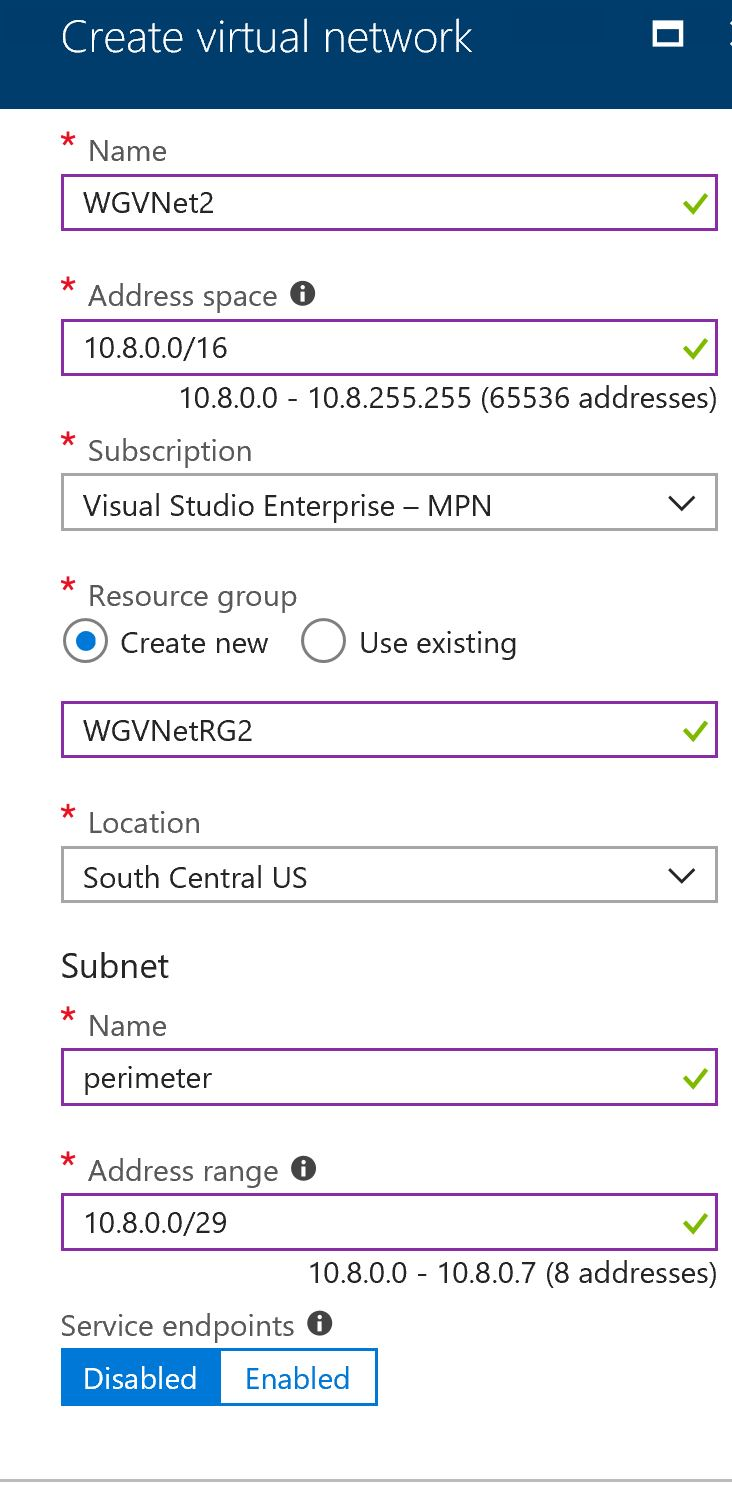
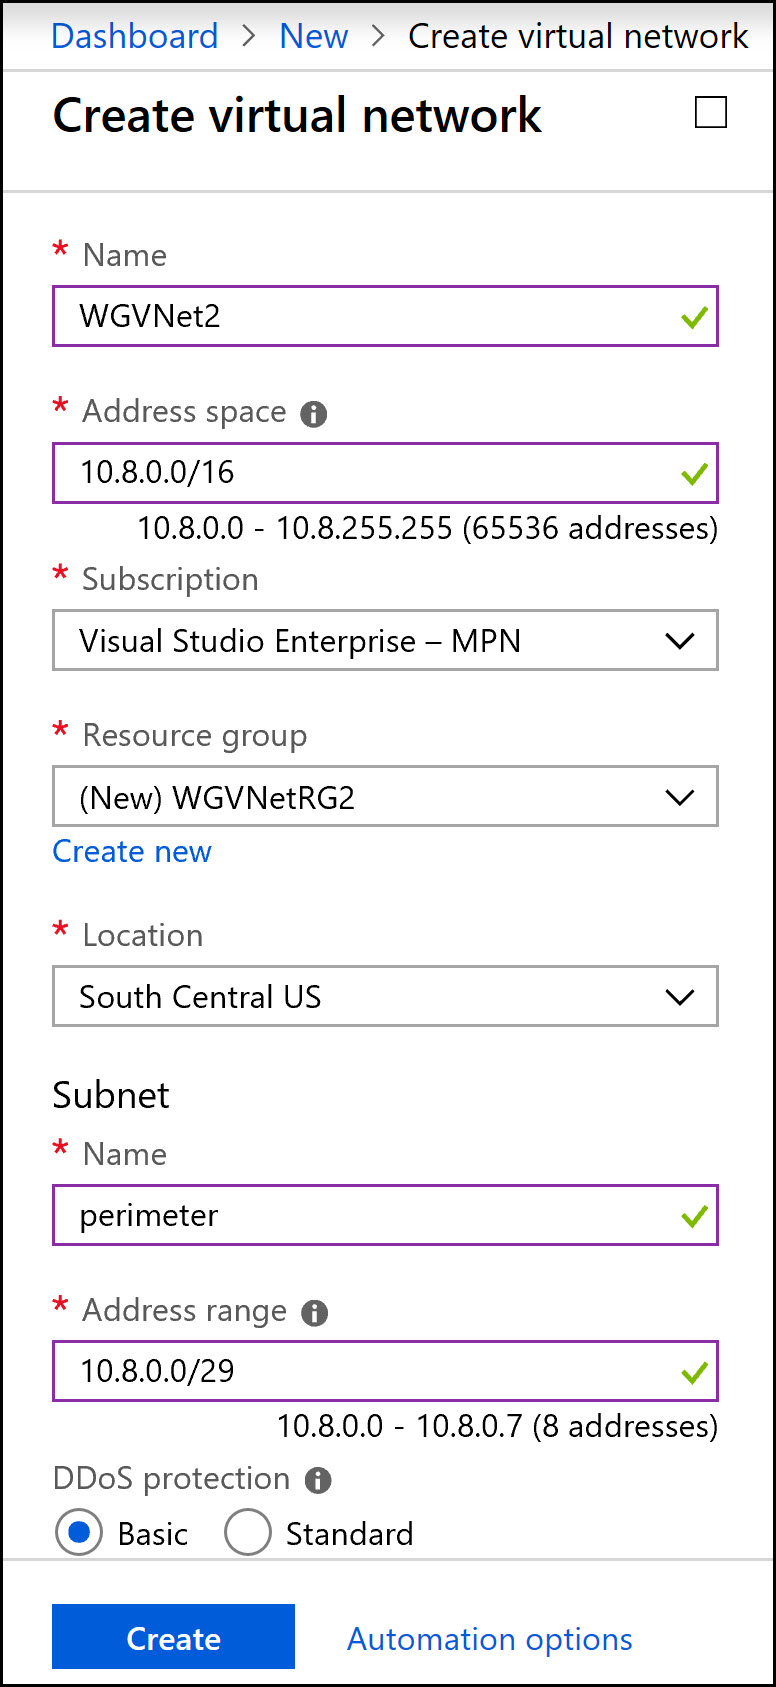
updated guide

Changed region(s): [[0.0, 0.0, 1.0, 1.0]]

diff --git a/Hands-on lab/HOL step-by-step - Enterprise-class networking in Azure.md b/Hands-on lab/HOL step-by-step - Enterprise-class networking in Azure.md
@@ -9,7 +9,7 @@ Hands-on lab step-by-step
 </div>
 
 <div class="MCWHeader3">
-August 2018
+January 2019
 </div>
 
 
@@ -33,41 +33,41 @@ Microsoft and the trademarks listed at <https://www.microsoft.com/en-us/legal/in
     - [Solution architecture](#solution-architecture)
     - [Requirements](#requirements)
     - [Help references](#help-references)
-    - [Exercise 1: Create a Virtual Network and provision subnets](#exercise-1-create-a-virtual-network-and-provision-subnets)
-        - [Task 1: Create a Virtual Network](#task-1-create-a-virtual-network)
-        - [Task 2: Configure subnets](#task-2-configure-subnets)
-    - [Exercise 2: Create second Virtual Network and provision subnets](#exercise-2-create-second-virtual-network-and-provision-subnets)
-        - [Task 1: Create a second Virtual Network](#task-1-create-a-second-virtual-network)
-        - [Task 2: Configure Subnets](#task-2-configure-subnets)
-    - [Exercise 3: Create route tables with required routes](#exercise-3-create-route-tables-with-required-routes)
-        - [Task 1: Create route tables](#task-1-create-route-tables)
-        - [Task 2: Add routes to each route table](#task-2-add-routes-to-each-route-table)
-    - [Exercise 4: Deploy n-tier application and validate functionality](#exercise-4-deploy-n-tier-application-and-validate-functionality)
-        - [Task 1: Use the Azure portal for a template deployment](#task-1-use-the-azure-portal-for-a-template-deployment)
-        - [Task 2: Validate the CloudShop application is up after the deployment](#task-2-validate-the-cloudshop-application-is-up-after-the-deployment)
-        - [Task 3: Create a load balancer to distribute load between the web servers](#task-3-create-a-load-balancer-to-distribute-load-between-the-web-servers)
-        - [Task 4: Configure the load balancer](#task-4-configure-the-load-balancer)
-    - [Exercise 5: Build the management station](#exercise-5-build-the-management-station)
-        - [Task 1: Build the management VM](#task-1-build-the-management-vm)
-    - [Exercise 6: Virtual Network Peering](#exercise-6-virtual-network-peering)
-        - [Task 1: Configure VNet peering WGVNET1 to WGVNET2](#task-1-configure-vnet-peering-wgvnet1-to-wgvnet2)
-        - [Task 2: Configure VNet peering WGVNET2 to WGVNET1](#task-2-configure-vnet-peering-wgvnet2-to-wgvnet1)
-    - [Exercise 7: Provision and configure partner firewall solution](#exercise-7-provision-and-configure-partner-firewall-solution)
-        - [Task 1: Provision the firewall appliance](#task-1-provision-the-firewall-appliance)
-        - [Task 2: Enable IP forwarding on the firewall network interface](#task-2-enable-ip-forwarding-on-the-firewall-network-interface)
-    - [Exercise 8: Configure the firewall to control traffic flow](#exercise-8-configure-the-firewall-to-control-traffic-flow)
-        - [Task 1: Log on to Barracuda firewall and monitor the traffic and firewall rules](#task-1-log-on-to-barracuda-firewall-and-monitor-the-traffic-and-firewall-rules)
-        - [Task 2: Configure firewall rules](#task-2-configure-firewall-rules)
-        - [Task 3: Associate route tables to subnets](#task-3-associate-route-tables-to-subnets)
-    - [Exercise 9: Configure Site-to-Site connectivity](#exercise-9-configure-site-to-site-connectivity)
-        - [Task 1: Create OnPrem Virtual Network](#task-1-create-onprem-virtual-network)
-        - [Task 2: Configure gateway subnets for on premise Virtual Network](#task-2-configure-gateway-subnets-for-on-premise-virtual-network)
-        - [Task 3: Create the first gateway](#task-3-create-the-first-gateway)
-        - [Task 4: Create the second gateway](#task-4-create-the-second-gateway)
-        - [Task 5: Connect the gateways](#task-5-connect-the-gateways)
-    - [Exercise 10: Validate connectivity from 'on-premises' to Azure](#exercise-10-validate-connectivity-from-on-premises-to-azure)
-        - [Task 1: Create a virtual machine to validate connectivity](#task-1-create-a-virtual-machine-to-validate-connectivity)
-        - [Task 2: Configure routing for simulated 'on-premises' to Azure traffic](#task-2-configure-routing-for-simulated-on-premises-to-azure-traffic)
+    - [Exercise 1: Create a Virtual Network and provision subnets](#exercise-1--create-a-virtual-network-and-provision-subnets)
+        - [Task 1: Create a Virtual Network](#task-1--create-a-virtual-network)
+        - [Task 2: Configure subnets](#task-2--configure-subnets)
+    - [Exercise 2: Create second Virtual Network and provision subnets](#exercise-2--create-second-virtual-network-and-provision-subnets)
+        - [Task 1: Create a second Virtual Network](#task-1--create-a-second-virtual-network)
+        - [Task 2: Configure Subnets](#task-2--configure-subnets)
+    - [Exercise 3: Create route tables with required routes](#exercise-3--create-route-tables-with-required-routes)
+        - [Task 1: Create route tables](#task-1--create-route-tables)
+        - [Task 2: Add routes to each route table](#task-2--add-routes-to-each-route-table)
+    - [Exercise 4: Deploy n-tier application and validate functionality](#exercise-4--deploy-n-tier-application-and-validate-functionality)
+        - [Task 1: Use the Azure portal for a template deployment](#task-1--use-the-azure-portal-for-a-template-deployment)
+        - [Task 2: Validate the CloudShop application is up after the deployment](#task-2--validate-the-cloudshop-application-is-up-after-the-deployment)
+        - [Task 3: Create a load balancer to distribute load between the web servers](#task-3--create-a-load-balancer-to-distribute-load-between-the-web-servers)
+        - [Task 4: Configure the load balancer](#task-4--configure-the-load-balancer)
+    - [Exercise 5: Build the management station](#exercise-5--build-the-management-station)
+        - [Task 1: Build the management VM](#task-1--build-the-management-vm)
+    - [Exercise 6: Virtual Network Peering](#exercise-6--virtual-network-peering)
+        - [Task 1: Configure VNet peering WGVNET1 to WGVNET2](#task-1--configure-vnet-peering-wgvnet1-to-wgvnet2)
+        - [Task 2: Configure VNet peering WGVNET2 to WGVNET1](#task-2--configure-vnet-peering-wgvnet2-to-wgvnet1)
+    - [Exercise 7: Provision and configure partner firewall solution](#exercise-7--provision-and-configure-partner-firewall-solution)
+        - [Task 1: Provision the firewall appliance](#task-1--provision-the-firewall-appliance)
+        - [Task 2: Enable IP forwarding on the firewall network interface](#task-2--enable-ip-forwarding-on-the-firewall-network-interface)
+    - [Exercise 8: Configure the firewall to control traffic flow](#exercise-8--configure-the-firewall-to-control-traffic-flow)
+        - [Task 1: Log on to Barracuda firewall and monitor the traffic and firewall rules](#task-1--log-on-to-barracuda-firewall-and-monitor-the-traffic-and-firewall-rules)
+        - [Task 2: Configure firewall rules](#task-2--configure-firewall-rules)
+        - [Task 3: Associate route tables to subnets](#task-3--associate-route-tables-to-subnets)
+    - [Exercise 9: Configure Site-to-Site connectivity](#exercise-9--configure-site-to-site-connectivity)
+        - [Task 1: Create OnPrem Virtual Network](#task-1--create-onprem-virtual-network)
+        - [Task 2: Configure gateway subnets for on premise Virtual Network](#task-2--configure-gateway-subnets-for-on-premise-virtual-network)
+        - [Task 3: Create the first gateway](#task-3--create-the-first-gateway)
+        - [Task 4: Create the second gateway](#task-4--create-the-second-gateway)
+        - [Task 5: Connect the gateways](#task-5--connect-the-gateways)
+    - [Exercise 10: Validate connectivity from 'on-premises' to Azure](#exercise-10--validate-connectivity-from-on-premises-to-azure)
+        - [Task 1: Create a virtual machine to validate connectivity](#task-1--create-a-virtual-machine-to-validate-connectivity)
+        - [Task 2: Configure routing for simulated 'on-premises' to Azure traffic](#task-2--configure-routing-for-simulated-on-premises-to-azure-traffic)
     - [After the hands-on lab](#after-the-hands-on-lab)
 
 <!-- /TOC -->
@@ -139,18 +139,18 @@ Duration: 15 minutes
     f.  Subnet name: **GatewaySubnet**
 
     g.  Subnet address range: **10.7.0.0/29**
+    
+    **Leave the other options as default for now**
 
     Upon completion, it should look like the following screenshot. Validate the information is correct, and select **Create**.
 
-    ![The create virtual network dialog is displayed.](images/Hands-onlabstep-by-step-Enterprise-classnetworkinginAzureimages/media/image26.jpeg "Create virtual network")
+    ![The create virtual network dialog is displayed.](images/Hands-onlabstep-by-step-Enterprise-classnetworkinginAzureimages/media/image26.png "Create virtual network")
 
-3.  Monitor the deployment status by selecting **Notifications** in the portal. In a minute or so, you should see a confirmation of the successful deployment. Select **Go to Resource**.
-
-    ![This is a successful notification of a deployment.](images/Hands-onlabstep-by-step-Enterprise-classnetworkinginAzureimages/media/image27.jpeg "Deployment succeeded")
+3.  Monitor the deployment status by selecting **Notifications Bell** at the top of the portal. In a minute or so, you should see a confirmation of the successful deployment. Select **Go to Resource**.
 
 ### Task 2: Configure subnets
 
-1.  Go to the WGVNetRG Group, and select **WGVNet1 Virtual Network** blade, and select **Subnets**.
+1.  Go to the WGVNetRG1 Group, and select **WGVNet1 Virtual Network** blade, and select **Subnets**.
 
     ![In the Virtual Network blade, under Settings, Subnets is selected.](images/Hands-onlabstep-by-step-Enterprise-classnetworkinginAzureimages/media/image28.png "Virtual Network blade")
 
@@ -664,7 +664,7 @@ In this exercise, management of the Azure-based systems will only be available f
 
     ![Under Storage in the Settings blade, No is selected.](images/Hands-onlabstep-by-step-Enterprise-classnetworkinginAzureimages/media/image85.png "Settings blade")
 
-5.  Under **Network**, select the **Virtual network** section. On the **Choose Virtual Network** blade, choose **WGVNet**.
+5.  Under **Network**, select the **Virtual network** section. On the **Choose Virtual Network** blade, choose **WGVNet1**.
 
     ![In the Settings blade, under Network, Virtual network (new) WGMGMTRG-vnet is selected. In the Choose virtual network blade, WGVNet is selected.](images/Hands-onlabstep-by-step-Enterprise-classnetworkinginAzureimages/media/image86.png "Settings blade, Choose virtual network blade")
 

diff --git a/Hands-on lab/Before the HOL - Enterprise-class networking.md b/Hands-on lab/Before the HOL - Enterprise-class networking.md
@@ -9,7 +9,7 @@ Before the hands-on lab setup guide
 </div>
 
 <div class="MCWHeader3">
-August 2018
+January 2019
 </div>
 
 
@@ -30,9 +30,9 @@ Microsoft and the trademarks listed at <https://www.microsoft.com/en-us/legal/in
 - [Enterprise-class networking in Azure before the hands-on lab setup guide](#enterprise-class-networking-in-azure-before-the-hands-on-lab-setup-guide)
     - [Requirements](#requirements)
     - [Before the hands-on lab](#before-the-hands-on-lab)
-        - [Task 1: Create a virtual machine to execute the lab in](#task-1-create-a-virtual-machine-to-execute-the-lab-in)
-        - [Task 2: Update Azure PowerShell version](#task-2-update-azure-powershell-version)
-        - [Task 3: Download hands-on lab step-by-step support files](#task-3-download-hands-on-lab-step-by-step-support-files)
+        - [Task 1: Create a virtual machine to execute the lab in](#task-1--create-a-virtual-machine-to-execute-the-lab-in)
+        - [Task 2: Update Azure PowerShell version](#task-2--update-azure-powershell-version)
+        - [Task 3: Download hands-on lab step-by-step support files](#task-3--download-hands-on-lab-step-by-step-support-files)
 
 <!-- /TOC -->
 
@@ -60,8 +60,6 @@ If you are working on a machine that cannot run PowerShell, carry out this task.
 
 4.  In the Marketplace solution blade, at the bottom of the page keep the deployment model set to **Resource Manager**, and choose **Create**.
 
-    ![Resource Manager is selected from the Select a deployment model drop-down list box.](images/Setup/image4.png "Select a deployment model ")
-
 5.  Set the following configuration on the Basics tab, and choose **OK**:
 
     -   Name: **LABVM**
@@ -78,39 +76,20 @@ If you are working on a machine that cannot run PowerShell, carry out this task.
 
     -   Location: **Choose the closest Azure region to you**.
 
-    ![All fields in the Basics blade are set to the previously defined settings.](images/Setup/image5.png "Basics blade")
-
 6.  Choose the **DS1\_V2 Standard** or **F2S** instance size on the Size blade.
 
-    > **Note:** You may have to select the View All link to see the instance sizes.
-
-    ![On the Choose a size blade, the DS1\_V2 Standard option is selected.](images/Setup/image6.png "Choose a size blade")
-
->**Note**: If the Azure Subscription you are using is [NOT]{.underline} a trial Azure subscription, you may want to choose the DS2\_V2 to have more power in this LABMV. If you are using a Trial Subscription or one that you know has a restriction on the number of cores, stick with the DS1\_V2.
+    >**Note**: If the Azure Subscription you are using is [NOT]{.underline} a trial Azure subscription, you may want to choose the DS2\_V2 to have more power in this LABMV. If you are using a Trial Subscription or one that you know has a restriction on the number of cores, stick with the DS1\_V2.
 
 7.  Select **Configure required settings** to specify a storage account for your virtual machine if a storage account name is not automatically selected for you.
 
-    ![On the Settings blade, Configure required settings is selected.](images/Setup/image7.png "Settings blade")
-
 8.  Select **Create New**.
-
-    ![Screenshot of the Create new button.](images/Setup/image8.png "Create new button")
-
 9.  Specify a unique name for the storage account (all lower letters and alphanumeric characters), and ensure the green checkmark shows the name is valid.
-
-    ![In the Name field, a green checkmark is called out.](images/Setup/image9.png "Name field")
 
 10. Select **OK** to continue.
 
-    ![Screenshot of the OK button.](images/Setup/image10.png "OK button")
-
 11. Select **Configure required settings** for the Diagnostics storage account if a storage account name is not automatically selected for you. Repeat the previous steps to select a unique storage account name. This storage account will hold diagnostic logs about your virtual machine that you can use for troubleshooting purposes.
 
-    ![Screenshot of the Configure required settings option.](images/Setup/image11.png "Configure required settings")
-
-12. Accept the remaining default values on the Settings blade, and choose **OK**. On the Summary page, select **OK**. The deployment should begin provisioning. It may take 10+ minutes for the virtual machine to complete provisioning.
-
-    ![Screenshot of the Deploying Visual Studio Community 2017 announcement.](images/Setup/image12.png "Deploying Visual Studio Community")
+12. Accept the remaining default values on the Settings blade, and choose **Review and Create**. The deployment should begin provisioning. It may take 10+ minutes for the virtual machine to complete provisioning.
 
 >**Note:** Please wait for the LABVM to be provisioned prior to moving to the next step.
 
